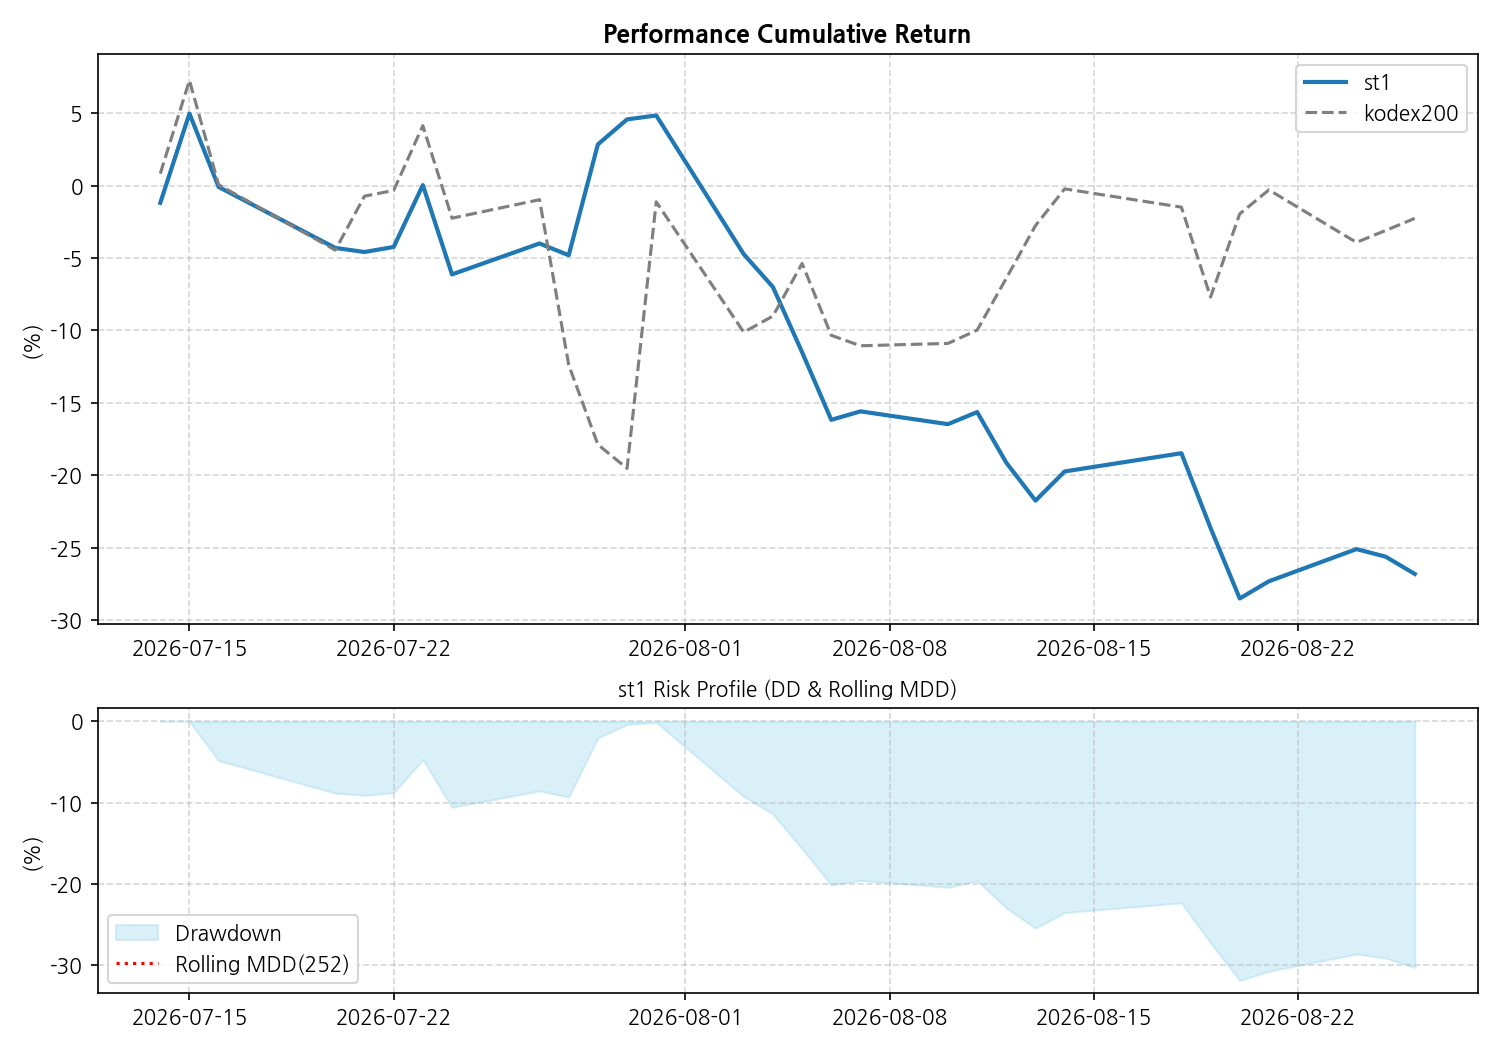
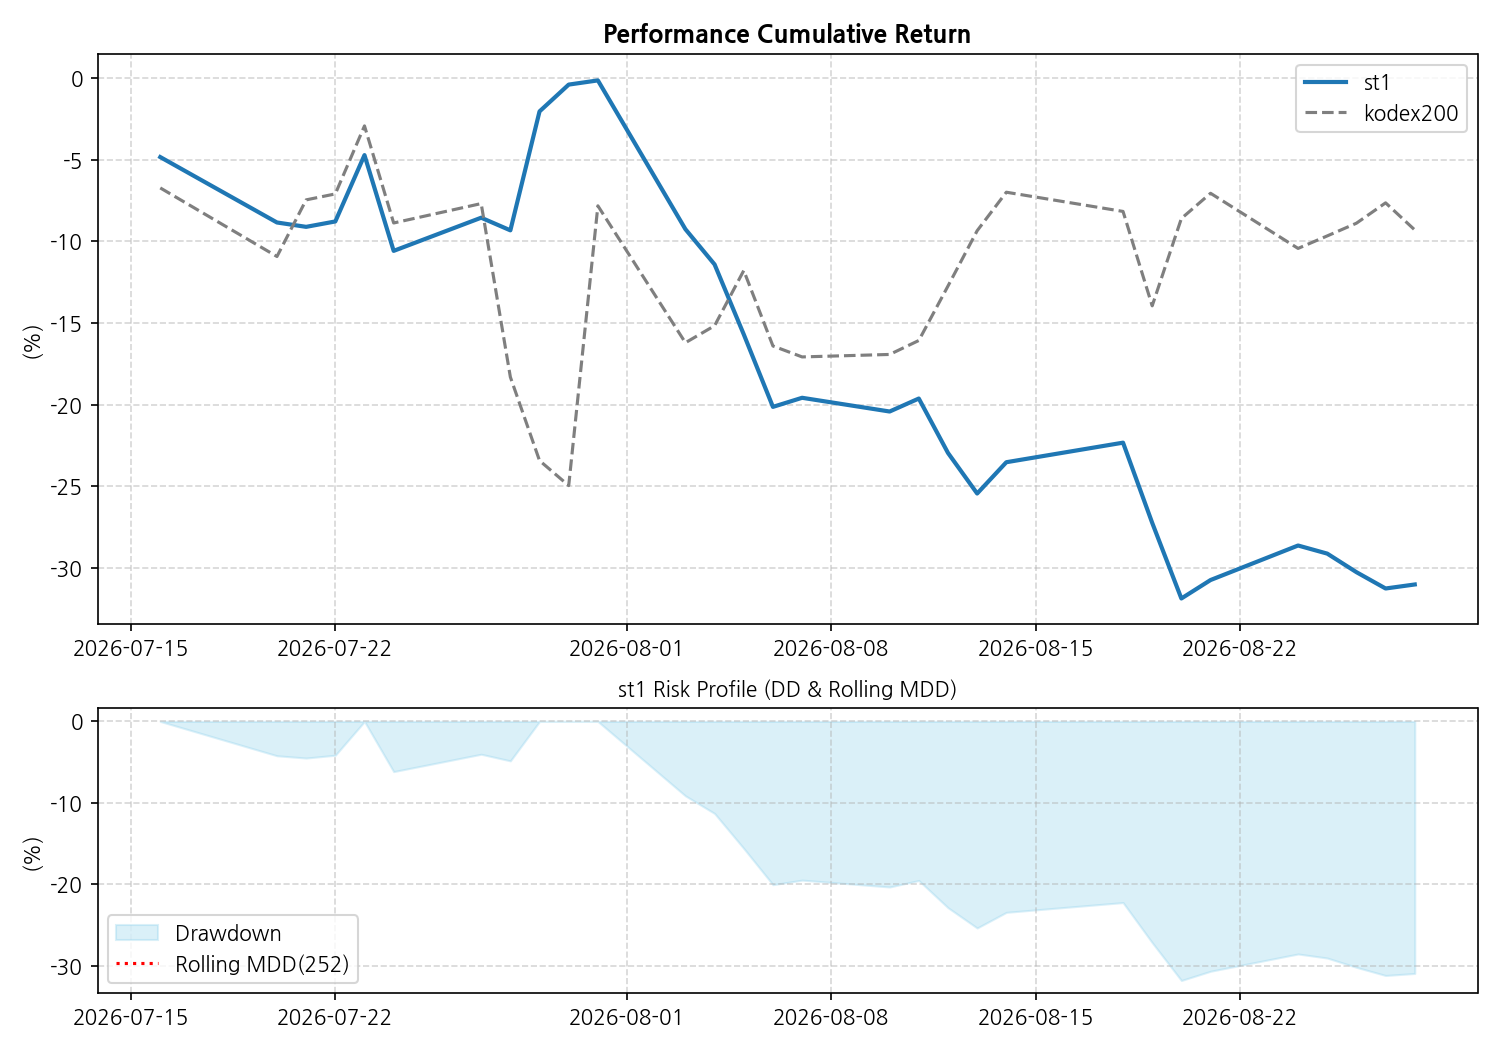
Auto commit

diff --git a/_pages/bt/bt_kodex.md b/_pages/bt/bt_kodex.md
@@ -2,7 +2,7 @@
 layout: post
 title: "BT, 오늘의 시그널(ETF)"
 author: Best Investor
-date: 2026-08-26
+date: 2026-08-28
 category: BT
 mermaid: true
 parent: 포트폴리오
@@ -14,13 +14,13 @@ parent: 포트폴리오
 
 | 지표 | 전략 1 (S1) | 전략 2 (S2) | 차이 (Diff) |
 | :--- | :---: | :---: | :---: |
-| **오늘 수익률** | -1.6% | 0.86% | -2.47% |
-| **30일 수익률** | -26.81% | -2.26% | -24.55% |
-| **1년 수익률** | 243.86% | 145.36% | 98.5% |
-| **전체 수익률** | 989.94% | 254.18% | 735.76% |
+| **오늘 수익률** | 0.36% | -1.8% | 2.16% |
+| **30일 수익률** | -31.03% | -9.29% | -21.74% |
+| **1년 수익률** | 237.19% | 141.98% | 95.21% |
+| **전체 수익률** | 986.1% | 253.44% | 732.66% |
 | **MDD (1Y)** | -38.4% | -41.15% | 2.75%p |
 | **MDD (ALL)** | **-38.4%** | **-41.15%** | 2.75%p |
-| **샤프 (1Y)** | 2.83 | 1.83 | 1.0 |
+| **샤프 (1Y)** | 2.78 | 1.8 | 0.98 |
 | **샤프 (ALL)** | **2.32** | **1.11** | 1.21 |
 
 ## 📉 누적 성과 및 리스크 차트

diff --git a/_posts/signal/2026-04-01-signal.md b/_posts/signal/2026-04-01-signal.md
@@ -7,6 +7,18 @@ category: Jekyll
 ---
 ## 시그널  
 
+### 📊 2026-08-31 Morning Trading Signal
+
+- 📅 날짜: 2026-08-31  
+- ⏰ 시간: 08:45  
+- 🧾 종목: **-**  
+- ⏸ 포지션: **No Trade**
+
+##### 🧭 Execution Plan
+- 🚀 진입: No Action
+- 🎯 청산: No Action
+
+
 ### 📊 2026-08-28 Afternoon Trading Signal
 
 - 📅 날짜: 2026-08-28  
